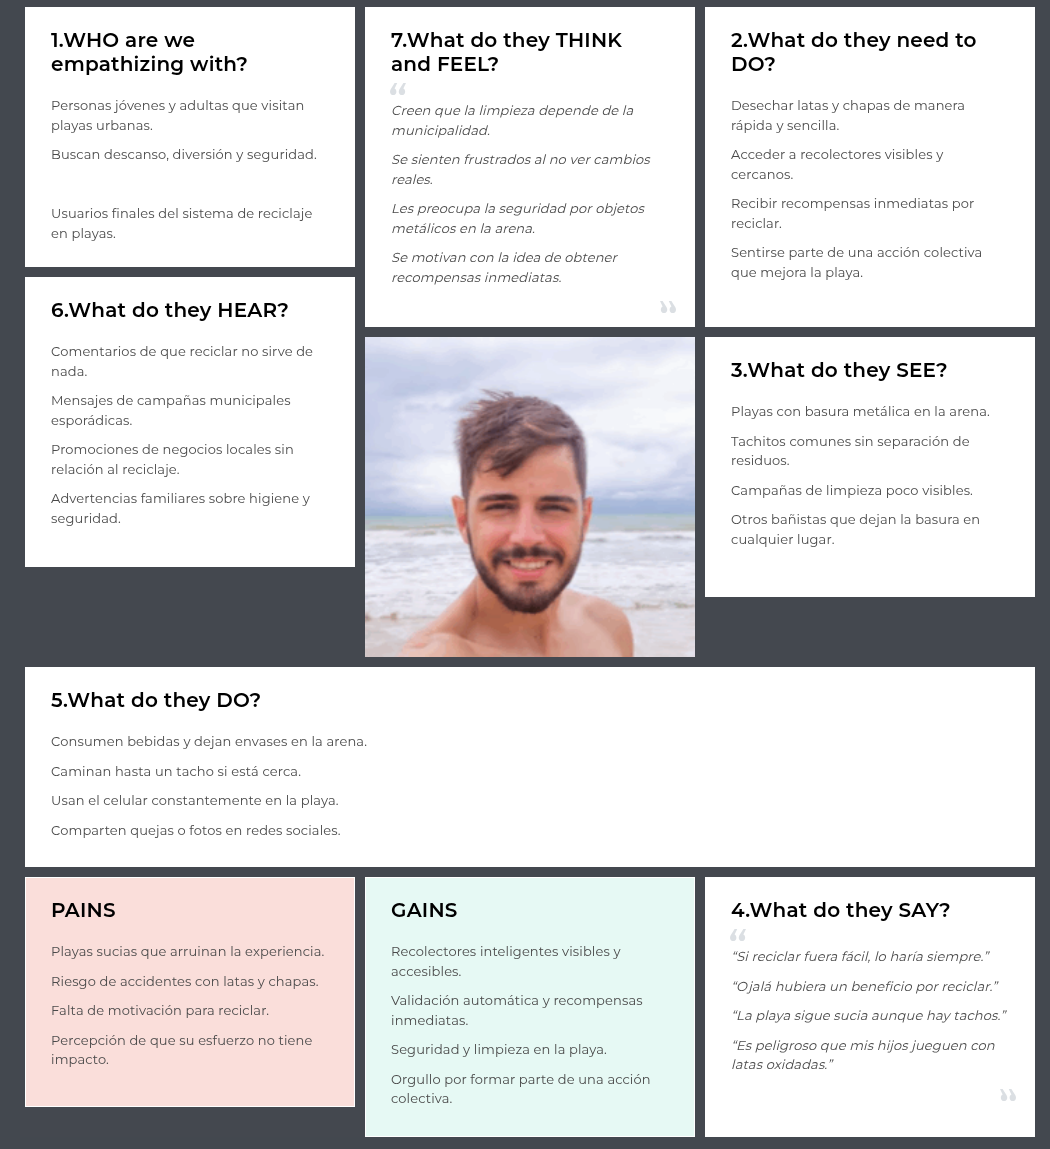
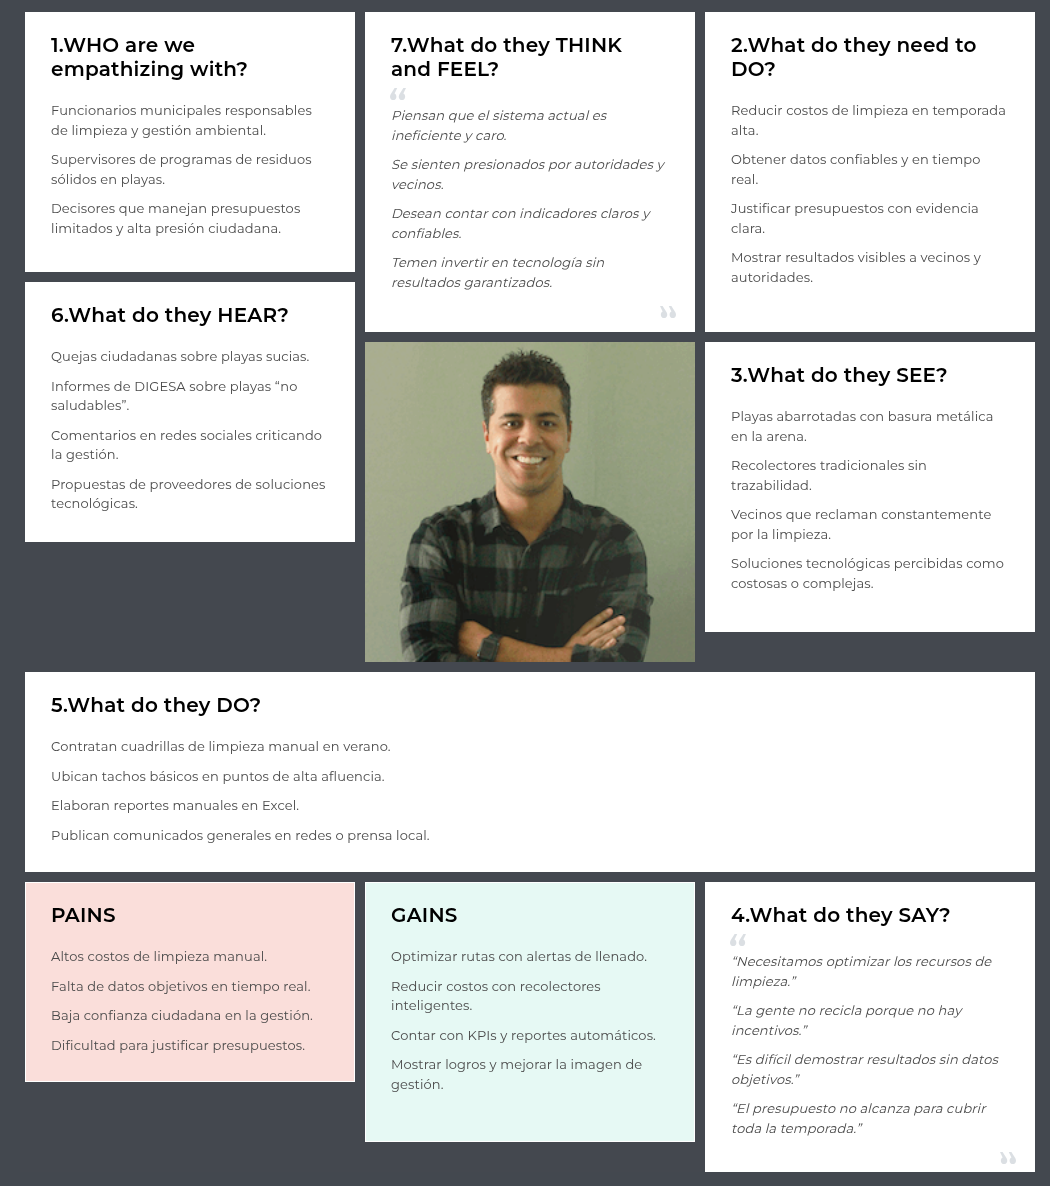
feat: update interview 5 details and add evidence image

diff --git a/README.md b/README.md
@@ -759,21 +759,21 @@ Carlos Ramírez, de 28 años y residente de Surco, visita las playas con frecuen
 
 ##### Entrevista 5
 <ul>
-  <li><b>Nombre del entrevistado:</b> —</li>
-  <li><b>Edad:</b> -- años</li>
-  <li><b>Distrito:</b> —</li>
-  <li><b>Nombre del entrevistador:</b> —</li>
-  <li><b>Duración:</b> —</li>
+  <li><b>Nombre del entrevistado:</b>Sebastian Cachis</li>
+  <li><b>Edad:</b> 26 años</li>
+  <li><b>Distrito:</b> San Miguel</li>
+  <li><b>Nombre del entrevistador:</b> Adriano Cruz</li>
+  <li><b>Duración:</b> 08:02</li>
 </ul>
 
 <p><b>Evidencia de la entrevista:</b></p>
 
 <p align="center">
-  <img src="./entrevistas/entrevista_muni_1.png" alt="Entrevista Municipalidad 2" width="85%">
+  <img src="./entrevistas/entrevista-muni_2.png" alt="Entrevista Municipalidad 2" width="85%">
 </p>
 
 <p align="center">
-  <b>Enlace de entrevista:</b> <i>(pendiente)</i>
+  <b>Enlace de entrevista:</b> <i></i>
 </p>
 
 <p align="center">
@@ -783,7 +783,7 @@ Carlos Ramírez, de 28 años y residente de Surco, visita las playas con frecuen
 <p><b>Resumen de la entrevista:</b></p>
 
 <p align="justify">
-  Resumen --------------------
+En la entrevista, Sebastian que es asistente de la coordinación de gestión ambiental de playas explicó que sus principales responsabilidades son la supervisión de labores de limpieza, coordinación de cuadrillas y diseño de estrategias para mantener limpias las playas. Actualmente, la gestión de residuos metálicos se basa en la recolección manual con cuadrillas y el uso de contenedores diferenciados, complementados con campañas de concientización en temporadas de alta afluencia. Sin embargo, enfrentan limitaciones relacionadas con la dependencia de mano de obra, la variabilidad en la participación ciudadana y la falta de incentivos sostenibles. Entre las dificultades destacan la gran cantidad de residuos en eventos turísticos, obstáculos de financiamiento y la presión por mantener una buena imagen turística. Como mejoras, planteó mayor concientización desde la educación temprana, incremento de contenedores en puntos estratégicos, señalización y programas de incentivos económicos o en especie. Además, valoró la posibilidad de implementar un sistema que permita reciclar y revender los residuos metálicos con recompensas para los bañistas, lo cual consideró una solución atractiva y viable si se superan las barreras burocráticas.
 </p>
 
 ---
